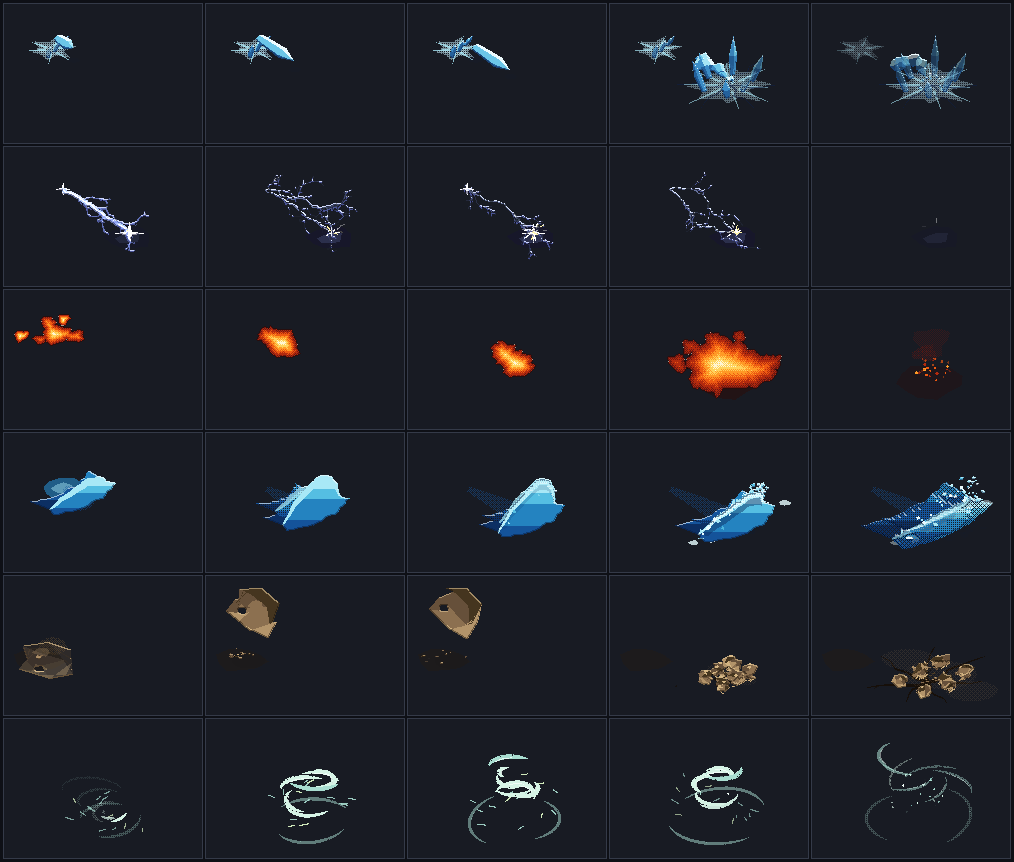
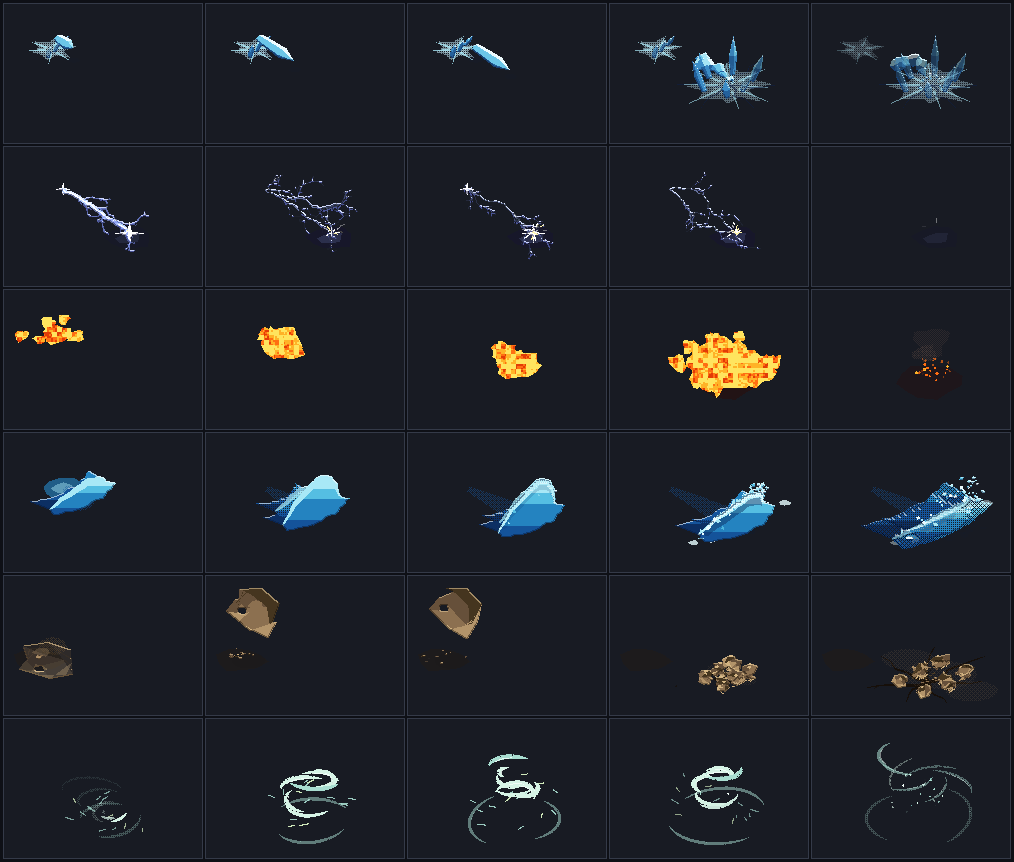
DA du feu : quatre valeurs saturees, moucheture, aucun contour
Une reference de pixel art fournie par l'utilisateur a recale la direction
artistique du feu. Trois ecarts avec ce que produisait le moteur :

- la rampe allait du blanc casse au brun profond, si bien que la moitie de
  la masse tombait dans des valeurs eteintes. Elle passe a quatre valeurs
  saturees du jaune au rouge, aucune sombre ;
- le corps portait un contour sombre. Un feu se detache par sa propre
  clarte ; un trait autour en fait un objet decoupe ;
- la valeur suivait l'epaisseur, ce qui donne des anneaux concentriques —
  une cible, pas un feu. La matiere est desormais mouchetee : des amas
  d'orange et de rouge disperses dans un champ majoritairement jaune, et
  l'epaisseur n'incline plus la valeur que sur la frange exterieure.

Le reglage a ete conduit a la mesure — on compte la proportion de chaque
valeur dans le corps de la flamme — et non a l'oeil. Trois tentatives
donnaient 7 %, 13 % puis 21 % de jaune la ou il en fallait environ 55 ; la
distribution est maintenant 56 / 26 / 12 / 7, conforme a la reference.

Trois causes identifiees au passage, chacune corrigee :

- le tramage entre echelons ajoute un grain parasite et deplace la moitie
  des pixels de la valeur claire vers la suivante ;
- moyenner deux bruits d'egal poids resserre la distribution autour de 0,5,
  donc tous les pixels tombent sur le meme echelon. Les gros amas decident,
  le detail ne fait que froisser leur bord ;
- l'epaisseur appliquee lineairement decale toute la masse d'un echelon, la
[…]

diff --git a/src/render/material.ts b/src/render/material.ts
@@ -19,8 +19,9 @@
  */
 
 import type { Vec2, Vec3 } from '../core/math.js';
-import { Framebuffer, type RGBA, bayer4, mixColor } from '../raster/framebuffer.js';
+import { Framebuffer, type RGBA, mixColor } from '../raster/framebuffer.js';
 import type { ProjectionProfile } from '../space/projection.js';
+import { randN } from '../core/rng.js';
 import type { Palette } from '../style/palette.js';
 import { rampAt } from '../style/palette.js';
 import type { StyleProfile } from '../style/styleProfile.js';
@@ -185,12 +186,56 @@ export function applyMaterial(fb: Framebuffer, o: MaterialOptions): void {
  * Les transitions entre échelons sont tramées, ce qui évite les anneaux trop
  * réguliers tout en gardant des valeurs franches.
  */
+export type EmissiveOptions = {
+  /** Épaisseur minimale pour parcourir toute la rampe. */
+  readonly coreDistance: number;
+  /** Opacité du contour. 0 = aucun, ce qui est le cas d'une flamme. */
+  readonly rimAlpha: number;
+  /**
+   * Poids de l'épaisseur dans le choix de la valeur.
+   *
+   * Seule, elle produit des anneaux concentriques réguliers — une cible, pas
+   * un feu. Dans un feu dessiné à la main, le bord est à peine plus chaud que
+   * le cœur : ce sont les **amas** d'orange et de rouge dispersés dans la
+   * masse qui font la matière.
+   */
+  readonly edgeBias: number;
+  /** Poids de la moucheture. */
+  readonly turbulence: number;
+  /**
+   * Exposant appliqué à la moucheture. Au-dessus de 1 il tire la distribution
+   * vers le clair : c'est lui qui décide de la proportion de jaune, et donc de
+   * la lecture d'ensemble. Un bruit uniforme donne une masse orange homogène.
+   */
+  readonly turbulenceBias: number;
+  /**
+   * Décalage vertical de la moucheture, en pixels. Il avance avec le temps,
+   * si bien que la texture **monte** au lieu de grésiller sur place.
+   */
+  readonly phase: number;
+  readonly seed: number;
+};
+
+/**
+ * Bruit par cellules, échantillonné au plus proche : des amas francs.
+ *
+ * Les gros amas décident seuls de la valeur ; le détail ne fait que froisser
+ * leur bord. Moyenner deux bruits d'égal poids resserrerait la distribution
+ * autour de 0,5 — tous les pixels tomberaient alors sur le même échelon de
+ * rampe, et la masse virerait à l'orange uniforme quel que soit le réglage.
+ */
+function mottle(x: number, y: number, phase: number, seed: number): number {
+  const coarse = randN(seed, Math.floor(x / 5) * 73 + Math.floor((y + phase) / 5), 1);
+  const detail = randN(seed + 977, Math.floor(x / 2) * 73 + Math.floor((y + phase * 1.6) / 2), 2);
+  const v = coarse + (detail - 0.5) * 0.35;
+  return v < 0 ? 0 : v > 1 ? 1 : v;
+}
+
 export function applyEmissive(
   fb: Framebuffer,
   mask: Uint8Array,
   palette: Palette,
-  coreDistance: number,
-  rimAlpha: number,
+  o: EmissiveOptions,
 ): void {
   const w = fb.width;
   const h = fb.height;
@@ -280,14 +325,27 @@ export function applyEmissive(
       const i = y * w + x;
       if (mask[i] !== 1) continue;
       // 0 au bord, 1 au cœur du corps auquel ce pixel appartient.
-      const span = Math.max(coreDistance, peak[label[i]!] ?? 1);
+      const span = Math.max(o.coreDistance, peak[label[i]!] ?? 1);
       const t = Math.min(1, (dist[i] ?? 0) / span);
-      const level = (1 - t) * (steps - 1);
-      const idx = Math.floor(level);
-      const frac = level - idx;
-      // Tramage de la transition : des bandes franches sans marches nettes.
-      const bump = bayer4(x, y) < frac ? 1 : 0;
-      const color = palette.ramp[Math.min(steps - 1, idx + bump)] ?? palette.core;
+      // L'épaisseur ne fait qu'incliner la valeur ; la moucheture porte le
+      // reste. Sans elle on obtient des anneaux, avec elle un feu.
+      // La moucheture est élevée à une puissance > 1 pour tirer la
+      // distribution vers le clair : dans un feu dessiné, le jaune couvre la
+      // majorité de la surface et l'orange comme le rouge ne sont que des
+      // accents. Un bruit uniforme donnerait une masse orange homogène.
+      const n = Math.pow(mottle(x, y, o.phase, o.seed), o.turbulenceBias);
+      // L'épaisseur n'agit que sur la frange extérieure : au cube, son effet
+      // s'éteint dès qu'on rentre dans le corps. Appliquée linéairement, elle
+      // décalait toute la masse d'un échelon — la moyenne de (1 - t) sur un
+      // disque vaut déjà un tiers — et le jaune disparaissait.
+      const v = Math.min(1, Math.pow(1 - t, 3) * o.edgeBias + n * o.turbulence);
+      // Quantification franche, sans tramage : les amas viennent de la
+      // moucheture elle-même. Tramer la transition entre deux échelons ajoute
+      // un grain parasite et, surtout, déplace la moitié des pixels de la
+      // valeur claire vers la suivante — la masse vire à l'orange alors qu'un
+      // feu dessiné est majoritairement jaune.
+      const idx = Math.min(steps - 1, Math.round(v * (steps - 1)));
+      const color = palette.ramp[idx] ?? palette.core;
       const alpha = fb.data[i * 4 + 3] ?? 255;
       fb.data[i * 4] = color[0];
       fb.data[i * 4 + 1] = color[1];
@@ -296,9 +354,10 @@ export function applyEmissive(
     }
   }
 
-  // Contour : un feu se détache toujours de son fond par un trait sombre.
-  if (rimAlpha <= 0) return;
-  const rim: RGBA = [palette.rim[0], palette.rim[1], palette.rim[2], Math.round(255 * rimAlpha)];
+  // Contour optionnel. Une flamme n'en a pas : elle se détache par sa propre
+  // clarté, et un trait sombre autour la transforme en objet découpé.
+  if (o.rimAlpha <= 0) return;
+  const rim: RGBA = [palette.rim[0], palette.rim[1], palette.rim[2], Math.round(255 * o.rimAlpha)];
   for (let y = 0; y < h; y++) {
     for (let x = 0; x < w; x++) {
       const i = y * w + x;

diff --git a/src/render/renderer.ts b/src/render/renderer.ts
@@ -35,6 +35,11 @@ export type RenderOptions = {
   readonly onlyTags?: readonly string[];
   /** Rendu de la seule silhouette, en blanc. Controle de lisibilité. */
   readonly silhouetteOnly?: boolean;
+  /**
+   * Instant du clip, en secondes. Sert aux textures qui doivent avancer dans
+   * le temps, comme la moucheture d'un corps émissif.
+   */
+  readonly phase?: number;
 };
 
 export type RenderResult = {
@@ -184,7 +189,17 @@ export function renderCommands(
       }
     }
     if (hasEmissive) {
-      applyEmissive(body, emissiveMask, palette, style.emissiveCore, style.outlineAlpha);
+      applyEmissive(body, emissiveMask, palette, {
+        coreDistance: style.emissiveCore,
+        rimAlpha: style.emissiveOutline,
+        edgeBias: style.emissiveEdgeBias,
+        turbulence: style.emissiveTurbulence,
+        turbulenceBias: style.emissiveTurbulenceBias,
+        // La moucheture monte avec le temps : une flamme grésille vers le
+        // haut, elle ne clignote pas sur place.
+        phase: (opts.phase ?? 0) * 26,
+        seed: opts.seed ?? 0x5eed,
+      });
       for (let i = 0; i < emissiveMask.length; i++) {
         if (emissiveMask[i] === 1) softMask[i] = 1;
       }
@@ -222,13 +237,14 @@ export function renderFrame(
 ): RenderResult {
   const style = opts.style ?? DEFAULT_STYLE;
   const ctx = makeContext(recipe, opts);
-  const cmds = recipe.sample(clamp01(t), ctx);
+  const clipTime = clamp01(t);
+  const cmds = recipe.sample(clipTime, ctx);
   return renderCommands(
     cmds,
     recipe.canvas.width,
     recipe.canvas.height,
     style,
-    opts,
+    { ...opts, phase: clipTime * recipe.duration },
     ctx.palette,
   );
 }

diff --git a/src/spells/fireBall.ts b/src/spells/fireBall.ts
@@ -256,7 +256,7 @@ export const fireBall: SpellRecipe = {
       // leur rotation les uns par rapport aux autres, pas d'un bruit global.
       for (let i = 0; i < 3; i++) {
         const spin = t * 26 + (i * Math.PI * 2) / 3;
-        const off = 0.17;
+        const off = 0.14;
         const centre = add3(head, {
           x: Math.cos(spin) * off,
           y: Math.sin(spin) * off * 0.6,
@@ -267,8 +267,8 @@ export const fireBall: SpellRecipe = {
             ctx,
             {
               center: centre,
-              radius: 0.42 + 0.07 * Math.sin(spin * 2),
-              aspect: 1.12,
+              radius: 0.6 + 0.07 * Math.sin(spin * 2),
+              aspect: 1.02,
               lean: 0.08,
               wobble: 0.3,
               phase: t * 24 + i * 2.1,
@@ -489,7 +489,7 @@ export const fireBall: SpellRecipe = {
         depth: depthOf(centre) - 2,
         shape: poly(pts.map((p) => ctx.p(p))),
         paint: {
-          color: fade(pal.ramp[5] ?? pal.rim, (1 - k) * 0.55 * (1 - ramp(t, CLIP_OUT - 0.1, CLIP_OUT))),
+          color: fade(pal.debris, (1 - k) * 0.55 * (1 - ramp(t, CLIP_OUT - 0.1, CLIP_OUT))),
           dither: { level: 0.6 - k * 0.3, matrix: 4 },
         },
         tag: 'smoke',

diff --git a/src/style/palette.ts b/src/style/palette.ts
@@ -55,14 +55,27 @@ export const PALETTES: Readonly<Record<ElementId, Palette>> = {
   },
   fire: {
     id: 'fire',
-    ramp: [c('FFF6D2'), c('FFD35C'), c('FF9A26'), c('EE5A12'), c('B22A0E'), c('6E1710')],
-    core: c('FFFFFF'),
-    accent: c('FFE9A0'),
+    /**
+     * Quatre valeurs, toutes saturées, aucune sombre.
+     *
+     * Une flamme de pixel art ne descend pas vers le brun ni vers le noir :
+     * elle vit entre le jaune et le rouge, et c'est le **fond** qui fait le
+     * contraste. La rampe précédente allait du blanc cassé au brun profond,
+     * si bien que la moitié de la masse tombait dans des valeurs éteintes et
+     * que le bord se lisait comme une croûte.
+     *
+     * Le jaune est majoritaire ; l'orange et le rouge sont des accents.
+     */
+    ramp: [c('FFE45E'), c('FFB227'), c('FF6E12'), c('E23C06')],
+    core: c('FFFDE8'),
+    accent: c('FFF2A8'),
+    /** Réservé aux brûlures au sol : jamais au contour d'une flamme. */
     rim: c('2A0C0A'),
     glow: c('FF9A2E'),
     ground: c('C4571C'),
     shadow: c('2A0C0A', 70),
-    debris: c('4A3A38'),
+    /** Fumée : la seule matière froide de l'élément. */
+    debris: c('55433E'),
   },
   water: {
     id: 'water',

diff --git a/src/style/styleProfile.ts b/src/style/styleProfile.ts
@@ -37,6 +37,14 @@ export type StyleProfile = {
    * retrouver avec un cœur blanc.
    */
   readonly emissiveCore: number;
+  /** Opacite du contour d'un corps emissif. 0 = aucun, cas d'une flamme. */
+  readonly emissiveOutline: number;
+  /** Poids de l'epaisseur dans la valeur d'un corps emissif. */
+  readonly emissiveEdgeBias: number;
+  /** Poids de la moucheture dans la valeur d'un corps emissif. */
+  readonly emissiveTurbulence: number;
+  /** Exposant de la moucheture : regle la part de la valeur la plus claire. */
+  readonly emissiveTurbulenceBias: number;
   /** Passe lumière additive. Le sujet doit rester lisible sans elle. */
   readonly glow: boolean;
   readonly glowAlpha: number;
@@ -53,6 +61,10 @@ export const DEFAULT_STYLE: StyleProfile = {
   contrast: 1.6,
   facetRange: [0.06, 0.74],
   emissiveCore: 3,
+  emissiveOutline: 0,
+  emissiveEdgeBias: 0,
+  emissiveTurbulence: 0.92,
+  emissiveTurbulenceBias: 2.6,
   outline: 'rim',
   outlineAlpha: 0.85,
   glow: true,

diff --git a/docs/architecture.md b/docs/architecture.md
@@ -125,6 +125,31 @@ donnait un « amas de briques ». La rampe est normalisée par corps, en
 8-connexité : une constante globale ne peut pas servir à la fois une mèche de
 dix pixels et une explosion de quarante.
 
+La couleur, elle, ne vient **pas** d'un dégradé concentrique. Une flamme
+dessinée à la main est mouchetée : des amas d'orange et de rouge dispersés
+dans un champ majoritairement jaune. L'épaisseur n'incline donc la valeur que
+sur la frange extérieure — appliquée linéairement, elle décale toute la masse
+d'un échelon, la moyenne de `1 - t` sur un disque valant déjà un tiers — et
+c'est un bruit par cellules qui porte le reste, remonté par un exposant qui
+décide de la part de jaune.
+
+Trois détails comptent, chacun mesuré plutôt que jugé à l'œil (les proportions
+visées sont celles d'une référence de pixel art : environ 55 % de jaune, 25 %
+d'orange, 12 % d'orange foncé, 7 % de rouge) :
+
+- **pas de tramage entre échelons.** Il ajoute un grain parasite et déplace la
+  moitié des pixels de la valeur claire vers la suivante : la masse vire à
+  l'orange quel que soit le réglage ;
+- **pas de moyenne de deux bruits d'égal poids.** Elle resserre la
+  distribution autour de 0,5, donc tous les pixels tombent sur le même
+  échelon. Les gros amas décident, le détail ne fait que froisser leur bord ;
+- **pas de contour.** Un feu se détache par sa propre clarté ; un trait sombre
+  autour en fait un objet découpé.
+
+La rampe du feu a suivi : quatre valeurs saturées du jaune au rouge, aucune
+sombre. La précédente allait du blanc cassé au brun profond, si bien que la
+moitié de la masse tombait dans des valeurs éteintes.
+
 Corollaire : un corps émissif ne se fond pas par tramage. Trouer sa silhouette
 fait mesurer à la passe l'épaisseur d'un grillage, et toute la masse retombe
 sur les échelons sombres. Il s'éteint en rétrécissant.

diff --git a/docs/avancement.md b/docs/avancement.md
@@ -124,6 +124,13 @@ Trois pièges rencontrés en chemin, tous corrigés :
 - **tramer l'opacité d'un corps émissif** le troue, la mesure d'épaisseur
   s'effondre et l'explosion finit en treillis rouge.
 
+Une référence de pixel art fournie en cours de route a recalé la direction
+artistique du feu : quatre valeurs saturées sans aucune sombre, aucun contour,
+et une matière **mouchetée** plutôt que des anneaux concentriques. Le réglage
+a été conduit à la mesure — on compte la proportion de chaque valeur dans le
+corps de la flamme — et non à l'œil : trois tentatives successives donnaient
+7 %, 13 % puis 21 % de jaune là où il en fallait environ 55 %.
+
 ## Ce qui fonctionne
 
 - Projection isométrique à ratio configurable, repères locaux, cap libre 360°,
